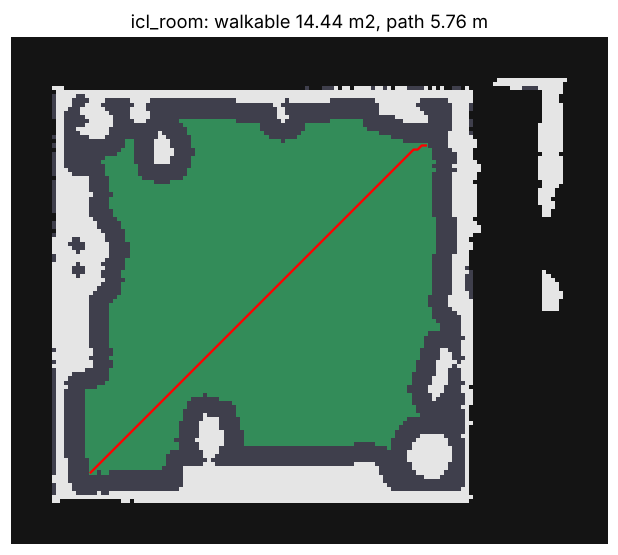
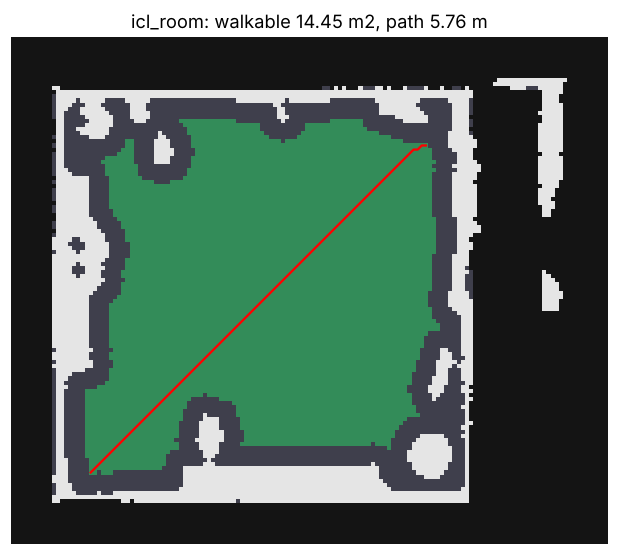
Final one-shot job: video -> sharp frames -> Depth Anything 3 -> point cloud -> walkable grid, floor plan, A* (CPU part tested on synthetic depth)
Claude-Session: https://claude.ai/code/session_01BsjtTJZ3sSEJHxz3iSfwvy

Changed region(s): [[0.2152, 0.0306, 0.7994, 0.0613], [0.5841, 0.7964, 0.6149, 0.8577], [0.123, 0.1532, 0.1537, 0.1838]]

diff --git a/colab/real_scenes/final/run.py b/colab/real_scenes/final/run.py
@@ -1,0 +1,53 @@
+# ONE-SHOT Kaggle job (UNTESTED on GPU, written in a container with no GPU/HF/Kaggle access): video -> walkable model.
+# Stage 1 sharpest frames -> 2 Depth Anything 3 (poses+depth+gaussians, feed-forward, ~1 min) -> 3 fuse + floor plan + A* (tested on CPU)
+# -> 4 package for the viewer. Matrix-3D gap filling stays a separate job (colab/real_scenes/matrix3d/kaggle) and is fed pano_raw from here.
+# Every stage logs and continues, so a failed stage never loses the earlier outputs in /kaggle/working.
+import glob, json, os, subprocess, sys, time, traceback
+T0 = time.time(); O = '/kaggle/working'; W = '/kaggle/temp/final'; os.makedirs(W, exist_ok=True)
+def sh(c, check=False):
+    print(f'\n[{time.time()-T0:5.0f}s] $ {c[:160]}', flush=True); r = subprocess.call(c, shell=True, executable='/bin/bash')
+    if check and r: raise RuntimeError(f'failed: {c[:80]}')
+    return r
+def stage(name):
+    def deco(f):
+        try: f(); print(f'== {name}: ok [{time.time()-T0:.0f}s]', flush=True)
+        except Exception: print(f'== {name}: FAILED'); traceback.print_exc()
+    return deco
+VIDEO = (glob.glob('/kaggle/input/*/video.mp4') or glob.glob('/kaggle/input/*/*.mp4'))[0]
+NFRAMES = int(os.environ.get('NFRAMES', 60))
+
+@stage('1 frames')
+def _():
+    sh('apt-get install -y -q ffmpeg >/dev/null 2>&1; pip -q install opencv-python-headless trimesh scipy matplotlib open3d', check=True)
+    import cv2, numpy as np
+    cap = cv2.VideoCapture(VIDEO); n = int(cap.get(cv2.CAP_PROP_FRAME_COUNT)); win = n // NFRAMES; os.makedirs(f'{W}/frames', exist_ok=True)
+    for k in range(NFRAMES):                                   # sharpest frame (variance of Laplacian) per window
+        best, bs = None, -1
+        for i in range(k * win, (k + 1) * win, 3):
+            cap.set(cv2.CAP_PROP_POS_FRAMES, i); ok, f = cap.read()
+            if not ok: continue
+            s = cv2.Laplacian(cv2.cvtColor(f, cv2.COLOR_BGR2GRAY), cv2.CV_64F).var()
+            if s > bs: best, bs = f, s
+        if best is not None:
+            h, w = best.shape[:2]; sc = 756 / max(h, w); cv2.imwrite(f'{W}/frames/{k:04d}.jpg', cv2.resize(best, (int(w * sc), int(h * sc))))
+    print(len(os.listdir(f'{W}/frames')), 'frames')
+
+@stage('2 depth anything 3')
+def _():
+    sh('pip -q install xformers --index-url https://download.pytorch.org/whl/cu121 2>&1 | tail -1; '
+       'pip -q install "git+https://github.com/ByteDance-Seed/Depth-Anything-3.git" 2>&1 | tail -2', check=True)
+    import numpy as np, torch, cv2
+    from depth_anything_3.api import DepthAnything3
+    model = DepthAnything3.from_pretrained('depth-anything/DA3NESTED-GIANT-LARGE').to('cuda').eval()
+    files = sorted(glob.glob(f'{W}/frames/*.jpg'))
+    pred = model.inference(files)                             # depth (N,H,W), extrinsics (N,3,4) w2c, intrinsics (N,3,3)
+    ext = np.concatenate([pred.extrinsics, np.tile([[[0, 0, 0, 1.]]], (len(files), 1, 1))], 1)
+    np.savez(f'{W}/da3.npz', depth=pred.depth, K=pred.intrinsics, c2w=np.linalg.inv(ext), rgb=pred.processed_images)
+    print('depth', pred.depth.shape, 'median depth', float(np.median(pred.depth)), '(DA3 nested = metric)')
+
+@stage('3 fuse + floor plan + path')
+def _():
+    sh(f'git clone -q --depth 1 -b claude/wonderful-cori-i3fn41 https://github.com/RazyAnas/NAMMA {W}/repo', check=True)
+    sys.path.insert(0, f'{W}/repo/colab/real_scenes/final'); import fuse_nav as F
+    F.fuse(f'{W}/da3.npz', f'{O}/model'); print(json.dumps({k: v for k, v in F.navigate(f'{O}/model/cloud.npz', f'{O}/model').items() if k != 'demo_path_cells'}))
+print('files:', os.listdir(O))

diff --git a/colab/real_scenes/final/fuse_nav.py b/colab/real_scenes/final/fuse_nav.py
@@ -1,0 +1,47 @@
+"""Feed-forward depth + poses -> TSDF mesh -> collision/walkable grid/floor plan/A* path. CPU only.
+
+Input npz: depth (N,H,W) metres, K (N,3,3), c2w (N,4,4) OpenCV camera (x right, y down, z forward), rgb (N,H,W,3) uint8.
+Output dir: mesh.ply (vertex colours), collision.ply, nav.json, floorplan.png.
+"""
+import json, sys, pathlib
+import numpy as np, open3d as o3d
+sys.path.insert(0, str(pathlib.Path(__file__).resolve().parents[3] / "experiments" / "nav_from_mesh"))
+import nav_from_mesh as N
+
+def fuse(npz, out, voxel=0.02, max_depth=8.0, stride=2):
+    """Back-project every depth map into one world point cloud (voxel-merged, normals estimated). Saves cloud.ply + cloud.npz.
+    (Open3D's TSDF fusion returned an empty mesh even for a flat wall in the test container, so it is not used here.)"""
+    d = np.load(npz); out = pathlib.Path(out); out.mkdir(parents=True, exist_ok=True)
+    P, C = [], []
+    for depth, K, c2w, rgb in zip(d["depth"], d["K"], d["c2w"], d["rgb"]):
+        H, W = depth.shape; v, u = np.mgrid[0:H:stride, 0:W:stride]; z = depth[v, u]; ok = (z > 0) & (z < max_depth)
+        x = (u[ok] - K[0, 2]) / K[0, 0] * z[ok]; y = (v[ok] - K[1, 2]) / K[1, 1] * z[ok]
+        P.append((np.stack([x, y, z[ok]], 1) @ c2w[:3, :3].T) + c2w[:3, 3]); C.append(rgb[v, u][ok])
+    pc = o3d.geometry.PointCloud(); pc.points = o3d.utility.Vector3dVector(np.concatenate(P))
+    pc.colors = o3d.utility.Vector3dVector(np.concatenate(C) / 255.0)
+    pc = pc.voxel_down_sample(voxel)
+    pc.estimate_normals(o3d.geometry.KDTreeSearchParamHybrid(radius=voxel * 4, max_nn=30))
+    o3d.io.write_point_cloud(str(out / "cloud.ply"), pc)
+    np.savez(out / "cloud.npz", pts=np.asarray(pc.points), nrm=np.asarray(pc.normals))
+    return pc
+
+def navigate(mesh_path, out, radius=0.25, cell=0.05):
+    out = pathlib.Path(out); R = N.analyse(str(mesh_path), radius, cell)
+    walk = R["walk"]; W, H, u0, v0, c = R["grid"]
+    idx = np.argwhere(walk)
+    s = tuple(idx[np.argmin(idx.sum(1))]); g = tuple(idx[np.argmax(idx.sum(1))])
+    path = N.astar(walk, s, g)
+    info = dict(up=R["up"].tolist(), floor=float(R["floor"]), grid=[W, H, float(u0), float(v0), c],
+                walkable_m2=float(walk.sum() * c * c), floor_seen_m2=float(R["floor_hit"].sum() * c * c),
+                demo_path_cells=None if path is None else [list(map(int, p)) for p in path])
+    json.dump(info, open(out / "nav.json", "w"))
+    import matplotlib; matplotlib.use("Agg"); import matplotlib.pyplot as plt
+    img = np.ones((H, W, 3)) * .08; img[R["floor_hit"].T] = [.25, .25, .3]; img[walk.T] = [.2, .55, .35]; img[R["obst"].T] = [.9, .9, .9]
+    fig, ax = plt.subplots(figsize=(7, 7 * H / W)); ax.imshow(img, origin="lower"); ax.axis("off")
+    if path: ax.plot([p[0] for p in path], [p[1] for p in path], "r-")
+    fig.savefig(out / "floorplan.png", dpi=110, bbox_inches="tight")
+    return info
+
+if __name__ == "__main__":
+    npz, out = sys.argv[1], sys.argv[2]
+    fuse(npz, out); print(json.dumps({k: v for k, v in navigate(pathlib.Path(out) / "cloud.npz", out).items() if k != "demo_path_cells"}))

diff --git a/colab/real_scenes/final/synth_test.py b/colab/real_scenes/final/synth_test.py
@@ -1,0 +1,26 @@
+"""CPU self-test: render depth from a known mesh at known poses, run fuse_nav, compare walkable area with the direct mesh result."""
+import sys, time, numpy as np, open3d as o3d, trimesh, pathlib
+sys.path.insert(0, str(pathlib.Path(__file__).parent)); import fuse_nav as F, nav_from_mesh as N
+src = sys.argv[1]; out = sys.argv[2]
+m = trimesh.load(src, force="mesh"); R0 = N.analyse(src); up = R0["up"]; floor = R0["floor"]
+t, b = N.floor_frame(up)
+scene = o3d.t.geometry.RaycastingScene()
+scene.add_triangles(o3d.t.geometry.TriangleMesh.from_legacy(o3d.geometry.TriangleMesh(
+    o3d.utility.Vector3dVector(m.vertices), o3d.utility.Vector3iVector(m.faces))))
+Wd, Hd = 160, 120; f = 110.0; K = np.array([[f, 0, Wd/2], [0, f, Hd/2], [0, 0, 1]])
+free = np.argwhere(R0["walk"]); gW, gH, u0, v0, c = R0["grid"]
+rng = np.random.default_rng(0); D, C, RGB = [], [], []
+for i in range(120):
+    iu, iv = free[rng.integers(len(free))]
+    pos = (u0 + (iu + .5) * c) * t + (v0 + (iv + .5) * c) * b + (floor + 1.4) * up   # eye height 1.4 m
+    yaw = rng.uniform(0, 2 * np.pi); fwd = np.cos(yaw) * t + np.sin(yaw) * b
+    z = fwd; y = -up; x = np.cross(y, z)                              # OpenCV: x right, y down, z forward
+    c2w = np.eye(4); c2w[:3, :3] = np.stack([x, y, z], 1); c2w[:3, 3] = pos
+    rays = o3d.t.geometry.RaycastingScene.create_rays_pinhole(K, np.linalg.inv(c2w), Wd, Hd)
+    ans = scene.cast_rays(rays); th = ans["t_hit"].numpy()
+    d = np.where(np.isfinite(th), th, 0).astype(np.float32)
+    dirs = rays.numpy()[..., 3:]; zc = (dirs @ z)                   # t_hit is along unit ray; convert to z-depth
+    D.append(d * zc); C.append(c2w); RGB.append(np.full((Hd, Wd, 3), 180, np.uint8))
+np.savez(out + "/synth.npz", depth=np.array(D), K=np.tile(K, (len(D), 1, 1)), c2w=np.array(C), rgb=np.array(RGB))
+t0 = time.time(); F.fuse(out + "/synth.npz", out, voxel=0.03); info = F.navigate(out + "/cloud.npz", out)
+print(f"direct walkable {R0['walk'].sum()*c*c:.2f} m2 | from depth views {info['walkable_m2']:.2f} m2 | fuse+nav {time.time()-t0:.1f}s")

diff --git a/experiments/nav_from_mesh/nav_from_mesh.py b/experiments/nav_from_mesh/nav_from_mesh.py
@@ -7,9 +7,16 @@ import argparse, heapq, json, time
 import numpy as np, trimesh
 from scipy import ndimage
 
-def estimate_up(m):
-    n, a = m.face_normals, m.area_faces
-    w, v = np.linalg.eigh((n * a[:, None]).T @ n)   # dominant normal axis = floor/ceiling
+def load_points(path):
+    """Mesh -> area-uniform surface samples + normals; a point cloud (.ply/.npy xyz+normals) is used as is."""
+    if str(path).endswith(".npz"):
+        d = np.load(path); return d["pts"], d["nrm"]
+    m = trimesh.load(path, force="mesh")
+    pts, fi = trimesh.sample.sample_surface(m, 400000, seed=0)
+    return pts, m.face_normals[fi]
+
+def estimate_up(n):
+    w, v = np.linalg.eigh(n.T @ n)   # dominant normal axis = floor/ceiling
     up = v[:, -1]
     # floor+ceiling are antiparallel; vertical walls are orthogonal. Pick the sign with the lower big mass (floor is lowest)
     return up
@@ -20,10 +27,9 @@ def floor_frame(up):
 
 def analyse(path, radius=0.25, cell=0.05, head=1.7, step=0.15):
     t0 = time.time()
-    m = trimesh.load(path, force="mesh")
-    up = estimate_up(m)
-    pts, fi = trimesh.sample.sample_surface(m, 400000, seed=0)
-    horiz = np.abs(m.face_normals[fi] @ up) > .85
+    pts, nrm = load_points(path)
+    up = estimate_up(nrm)
+    horiz = np.abs(nrm @ up) > .85
     def floor_of(sign):
         h = sign * (pts @ up); hh = h[horiz]
         lo, hi = hh.min(), hh.max()
@@ -57,7 +63,7 @@ def analyse(path, radius=0.25, cell=0.05, head=1.7, step=0.15):
     lab, n = ndimage.label(walk)
     if n:
         sizes = ndimage.sum(walk, lab, range(1, n + 1)); walk = lab == (1 + int(np.argmax(sizes)))
-    return dict(mesh=m, up=up, floor=floor, grid=(W, H, u0, v0, cell), floor_hit=floor_hit, obst=obst, walk=walk,
+    return dict(up=up, floor=floor, grid=(W, H, u0, v0, cell), floor_hit=floor_hit, obst=obst, walk=walk,
                 seconds=time.time() - t0)
 
 def astar(walk, s, g):
